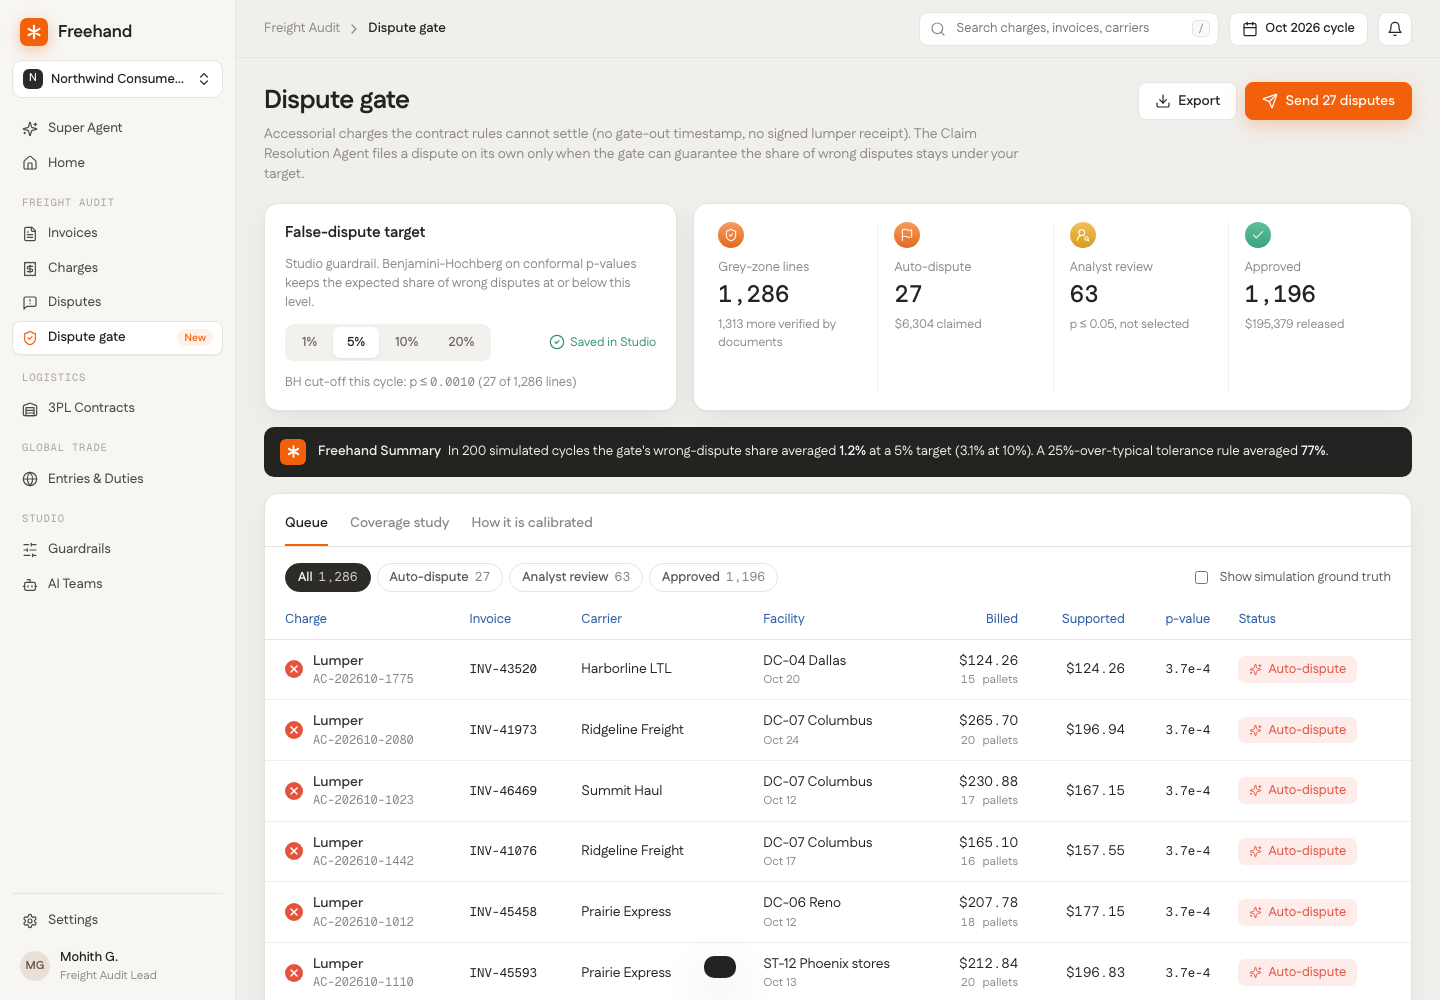
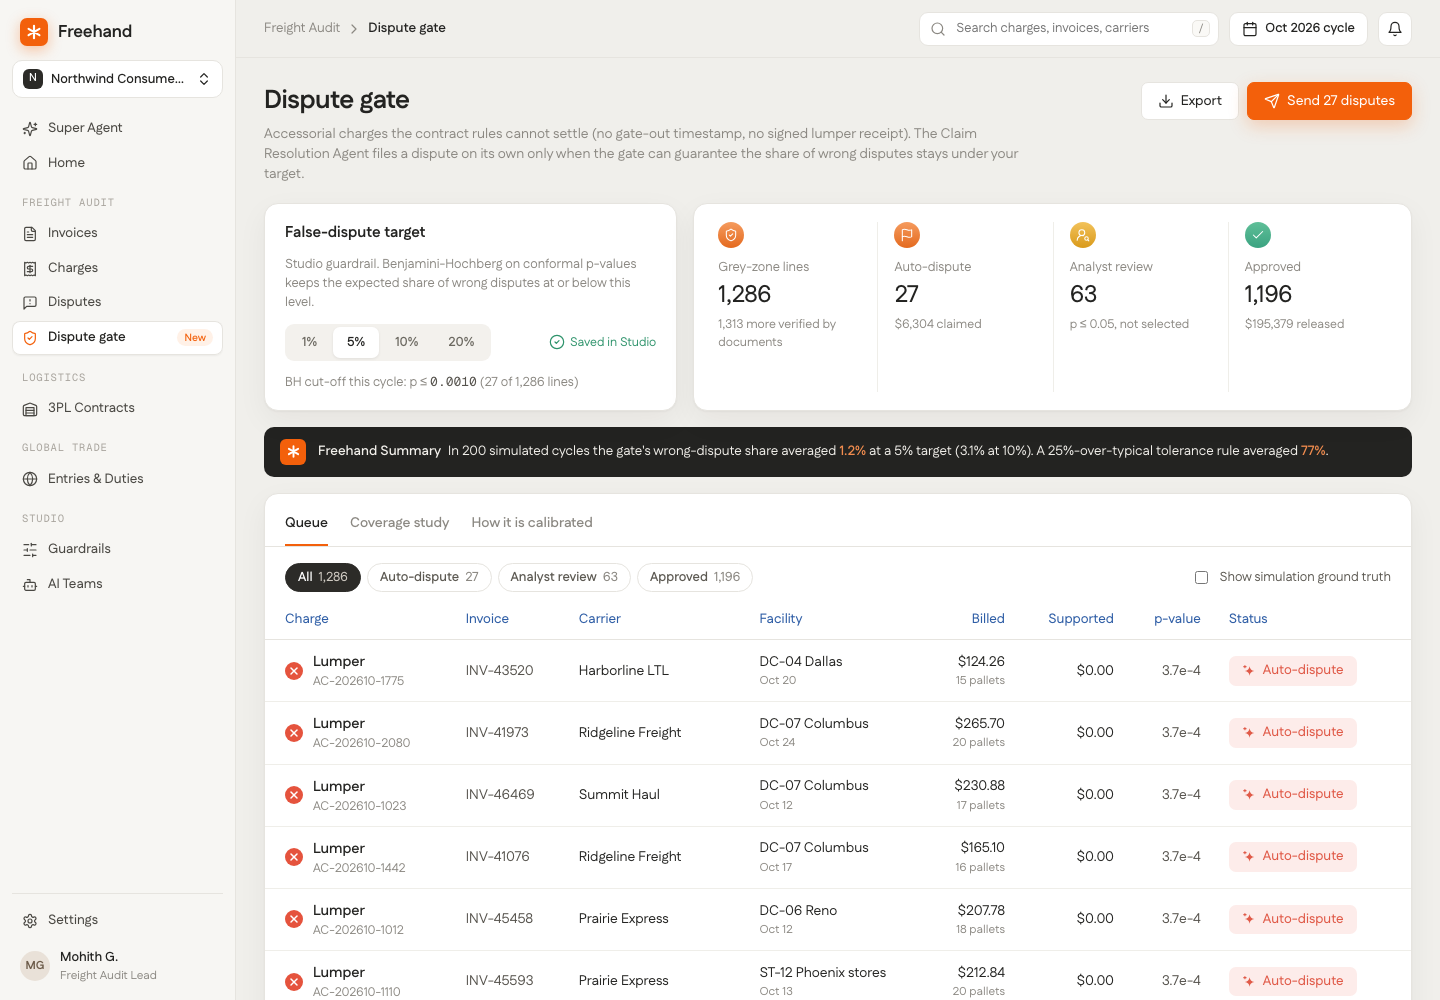
Match Freehand status pills, type and buttons; label placement

diff --git a/styles.css b/styles.css
@@ -82,7 +82,7 @@ kbd { font-family: var(--mono); font-size: 11px; color: var(--muted); border: 1p
 .ph h1 { margin: 0; font-size: 26px; font-weight: 700; letter-spacing: -.02em; }
 .ph p { margin: 4px 0 0; color: var(--muted); max-width: 760px; }
 .ph-actions { display: flex; gap: 8px; flex: none; position: relative; }
-.btn { display: inline-flex; align-items: center; gap: 7px; height: 38px; padding: 0 16px; border-radius: var(--r-ctl); border: 1px solid #2c2b28; background: #fff; font-weight: 600; font-size: 14px; cursor: pointer; white-space: nowrap; }
+.btn { display: inline-flex; align-items: center; gap: 7px; height: 38px; padding: 0 16px; border-radius: 7px; border: 1.25px solid #2c2b28; background: #fff; font-weight: 500; font-size: 14px; cursor: pointer; white-space: nowrap; }
 .btn:hover { background: #faf9f6; }
 .btn.pri { background: var(--orange); border-color: var(--orange); color: #fff; box-shadow: 0 6px 18px rgba(243, 96, 11, .25); }
 .btn.pri:hover { background: #e95706; }
@@ -113,13 +113,13 @@ kbd { font-family: var(--mono); font-size: 11px; color: var(--muted); border: 1p
 .kpi .ic.a { background: linear-gradient(180deg, #f2c25b, #d99a1b); }
 .kpi .ic.k { background: linear-gradient(180deg, #6f6c66, #45433f); }
 .kpi .l { color: var(--muted); font-size: 13px; }
-.kpi .v { font-size: 24px; font-weight: 600; letter-spacing: -.01em; margin-top: 2px; }
+.kpi .v { font-size: 24px; font-weight: 500; letter-spacing: -.01em; margin-top: 2px; }
 .kpi .s { font-size: 12.5px; color: var(--muted); margin-top: 2px; }
 
 .summary-bar { display: flex; align-items: center; gap: 12px; background: var(--dark); color: #f3f1ec; border-radius: 10px; padding: 12px 16px; margin-bottom: 16px; font-size: 13.5px; }
 .summary-bar .mk { width: 26px; height: 26px; border-radius: 6px; background: var(--orange); display: grid; place-items: center; flex: none; }
 .summary-bar .mk svg { width: 17px; height: 17px; }
-.summary-bar b { font-weight: 600; color: #fff; }
+.summary-bar b { font-weight: 600; color: #f28d4f; }
 .summary-bar .t { font-weight: 600; margin-right: 4px; }
 
 .tabs { display: flex; gap: 22px; border-bottom: 1px solid var(--line); margin: 6px 0 0; padding: 0 20px; }
@@ -133,7 +133,7 @@ kbd { font-family: var(--mono); font-size: 11px; color: var(--muted); border: 1p
 .chip[aria-pressed="true"] { background: #2c2b28; border-color: #2c2b28; color: #fff; }
 .chip[aria-pressed="true"] .n { color: #cfcac2; }
 table.t { width: 100%; border-collapse: collapse; font-size: 14px; }
-table.t th { text-align: left; font-weight: 500; font-size: 13px; color: var(--blue); padding: 12px 14px 10px; border-bottom: 1px solid var(--line); white-space: nowrap; position: sticky; top: 0; background: #fff; }
+table.t th { text-align: left; font-weight: 500; font-size: 13.5px; color: var(--blue); padding: 12px 14px 10px; border-bottom: 1px solid var(--line); white-space: nowrap; position: sticky; top: 0; background: #fff; }
 table.t th.num, table.t td.num { text-align: right; }
 table.t td { padding: 11px 14px; border-bottom: 1px solid var(--line-2); vertical-align: middle; }
 table.t tbody tr { cursor: pointer; }
@@ -141,24 +141,25 @@ table.t tbody tr:hover td { background: #fbfaf7; }
 table.t tbody tr.sel td { background: #fff6ef; }
 table.t td:first-child, table.t th:first-child { padding-left: 20px; }
 table.t td:last-child, table.t th:last-child { padding-right: 20px; }
-.cn { display: flex; align-items: center; gap: 10px; font-weight: 600; color: var(--ink-2); }
-.cn small { display: block; font-weight: 400; color: var(--muted); font-size: 12px; font-family: var(--mono); }
+.cn { display: flex; align-items: center; gap: 10px; font-weight: 600; color: var(--ink); font-size: 14.5px; }
+.cn small { display: block; font-weight: 400; color: var(--muted); font-size: 12.5px; }
 .dot { width: 18px; height: 18px; border-radius: 50%; display: grid; place-items: center; flex: none; color: #fff; }
 .dot svg { width: 12px; height: 12px; stroke-width: 3; }
 .dot.ok { background: var(--green); }
 .dot.bad { background: var(--red); }
 .dot.rev { background: #e8a524; }
 .dot.filed { background: #45433f; }
-.pill { display: inline-flex; align-items: center; gap: 6px; padding: 4px 11px; border-radius: 7px; font-size: 13px; font-weight: 500; white-space: nowrap; }
+.pill { display: inline-flex; align-items: center; gap: 7px; padding: 5px 13px; border-radius: 7px; font-size: 13.5px; font-weight: 500; white-space: nowrap; }
 .pill svg { width: 13px; height: 13px; }
+.pill svg.spark { width: 14px; height: 14px; }
 .pill.ok { background: var(--green-bg); color: var(--green-ink); }
 .pill.bad { background: var(--red-bg); color: var(--red-ink); }
 .pill.rev { background: var(--amber-bg); color: var(--amber); }
 .pill.filed { background: #ecebe7; color: #45433f; }
 .pill.truth { background: #f3f1ed; color: #6a675f; font-size: 12px; padding: 2px 8px; }
 .muted { color: var(--muted); }
-.mono { font-family: var(--mono); font-size: 12.5px; }
-.pv { font-family: var(--mono); font-size: 12.5px; }
+.mono { color: #55524c; }
+.pv { color: #55524c; }
 .more { display: flex; justify-content: center; padding: 14px; }
 .empty, .err { padding: 56px 20px; text-align: center; color: var(--muted); }
 .empty svg, .err svg { width: 28px; height: 28px; color: var(--muted-2); margin-bottom: 8px; }
@@ -176,12 +177,14 @@ table.t td:last-child, table.t th:last-child { padding-right: 20px; }
 .dh { padding: 20px 22px 14px; border-bottom: 1px solid var(--line-2); display: flex; justify-content: space-between; gap: 10px; }
 .dh h2 { margin: 0; font-size: 19px; font-weight: 700; }
 .dh .meta { color: var(--muted); font-size: 13px; margin-top: 3px; }
+.formula, .guard .mono { font-family: var(--mono); }
 .db { padding: 18px 22px 26px; display: flex; flex-direction: column; gap: 16px; }
 .fs { background: var(--dark); color: #ebe8e2; border-radius: 12px; padding: 14px 16px; font-size: 13.5px; line-height: 1.55; }
 .fs .fs-h { display: flex; align-items: center; gap: 10px; font-weight: 600; color: #fff; margin-bottom: 8px; font-size: 14px; }
 .fs .fs-h .mk { width: 22px; height: 22px; border-radius: 5px; background: var(--orange); display: grid; place-items: center; }
 .fs .fs-h .mk svg { width: 14px; height: 14px; }
-.fs b { color: #ffb487; font-weight: 600; }
+.fs b { color: #f28d4f; font-weight: 600; }
+.fs { background: linear-gradient(180deg, #1f211f, #2a2725); }
 .steps { width: 100%; border-collapse: collapse; font-size: 13.5px; }
 .steps th { text-align: left; font-weight: 500; color: var(--blue); font-size: 12.5px; padding: 8px 6px; border-bottom: 1px solid var(--line); }
 .steps td { padding: 10px 6px; border-bottom: 1px solid var(--line-2); vertical-align: top; }

diff --git a/app.js b/app.js
@@ -16,6 +16,8 @@ const fmtP = (p) => (p < 0.001 ? p.toExponential(1) : p.toFixed(p < 0.01 ? 4 : 3
 const hrs = (h) => (Math.round(h * 100) / 100).toString();
 const day = (d) => `Oct ${d}`;
 const ico = (n) => `<i data-lucide="${n}"></i>`;
+// Freehand's status-pill glyph: a filled four-point spark with a small plus
+const SPARK = '<svg class="spark" viewBox="0 0 24 24" aria-hidden="true"><path fill="currentColor" d="M13 4c.55 4.7 3.3 7.45 8 8-4.7.55-7.45 3.3-8 8-.55-4.7-3.3-7.45-8-8 4.7-.55 7.45-3.3 8-8z"/><path d="M5 2.5v4M3 4.5h4" stroke="currentColor" stroke-width="1.8" stroke-linecap="round"/></svg>';
 
 let W = null, R = null, D = null, GATE = null, S = load();
 let sel = -1;              // index into visible rows
@@ -164,7 +166,7 @@ const ST = {
   approve: ['ok', 'check', 'Approved'],
   filed: ['filed', 'send', 'Filed'],
 };
-function pill(s) { const [c, , t] = ST[s]; return `<span class="pill ${c}">${ico('sparkles')}${t}</span>`; }
+function pill(s) { const [c, , t] = ST[s]; return `<span class="pill ${c}">${SPARK}${t}</span>`; }
 function dot(s) { const [c, i] = ST[s]; return `<span class="dot ${c}">${ico(i)}</span>`; }
 
 function visibleRows(r, rows) {
@@ -290,9 +292,9 @@ function openDrawer(id) {
       <div class="fs"><div class="fs-h"><span class="mk"><svg viewBox="0 0 32 32"><g stroke="#fff" stroke-width="3.8" stroke-linecap="round"><path d="M16 6v20M7.3 11l17.4 10M7.3 21l17.4-10"/></g></svg></span>Freehand Summary</div>${story} ${decide}</div>
       <table class="steps" aria-label="Validation steps"><thead><tr><th>Validation step</th><th></th><th style="text-align:right">Value</th></tr></thead><tbody>
         <tr><td>Contract rate</td><td>${pill('approve')}</td><td class="v">${usd(l.a / l.q, 2)} / ${G.UNIT_LABEL[l.t]}</td></tr>
-        <tr><td>Documents on file</td><td><span class="pill rev">${ico('sparkles')}Missing</span></td><td class="v">${l.t === 0 ? 'no gate-out time' : l.t === 1 ? 'no signed receipt' : 'no POD notation'}</td></tr>
-        <tr><td>Charge rate here vs network</td><td>${k.sOcc > 2 ? `<span class="pill bad">${ico('sparkles')}Issue Found</span>` : pill('approve')}</td><td class="v">${pct(facRate, 2)} vs ${pct(netRate, 1)}</td></tr>
-        ${l.t === 0 ? `<tr><td>Billed hours vs peer-supported</td><td>${k.sHours > 3 ? `<span class="pill bad">${ico('sparkles')}Issue Found</span>` : pill('approve')}</td><td class="v">${hrs(l.q)} h vs ${(Math.ceil(k.hb * 4) / 4).toFixed(2)} h</td></tr>` : ''}
+        <tr><td>Documents on file</td><td><span class="pill rev">${SPARK}Missing</span></td><td class="v">${l.t === 0 ? 'no gate-out time' : l.t === 1 ? 'no signed receipt' : 'no POD notation'}</td></tr>
+        <tr><td>Charge rate here vs network</td><td>${k.sOcc > 2 ? `<span class="pill bad">${SPARK}Issue Found</span>` : pill('approve')}</td><td class="v">${pct(facRate, 2)} vs ${pct(netRate, 1)}</td></tr>
+        ${l.t === 0 ? `<tr><td>Billed hours vs peer-supported</td><td>${k.sHours > 3 ? `<span class="pill bad">${SPARK}Issue Found</span>` : pill('approve')}</td><td class="v">${hrs(l.q)} h vs ${(Math.ceil(k.hb * 4) / 4).toFixed(2)} h</td></tr>` : ''}
         <tr><td>Calibration rank (same type)</td><td></td><td class="v">${int(ge)} / ${int(n)} · p ${fmtP(x.p)}</td></tr>
         <tr><td>Decision at ${GATE.alpha * 100}% target</td><td>${pill(x.status)}</td><td class="v">${x.status === 'dispute' ? 'claim ' + usd(x.claim, 2) : ''}</td></tr>
       </tbody></table>
